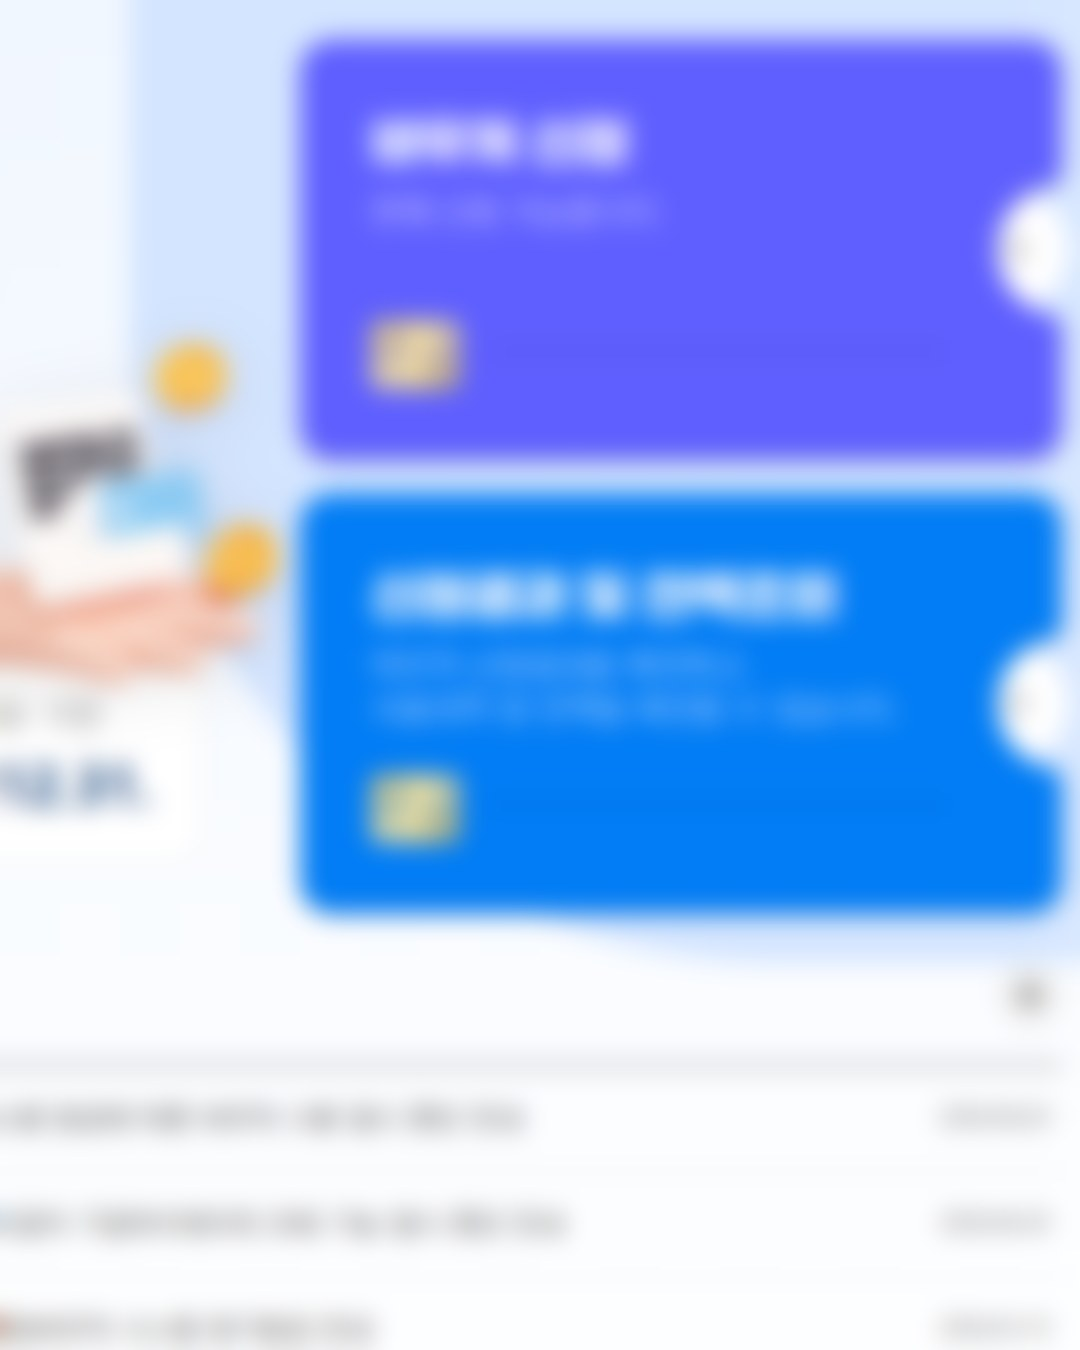
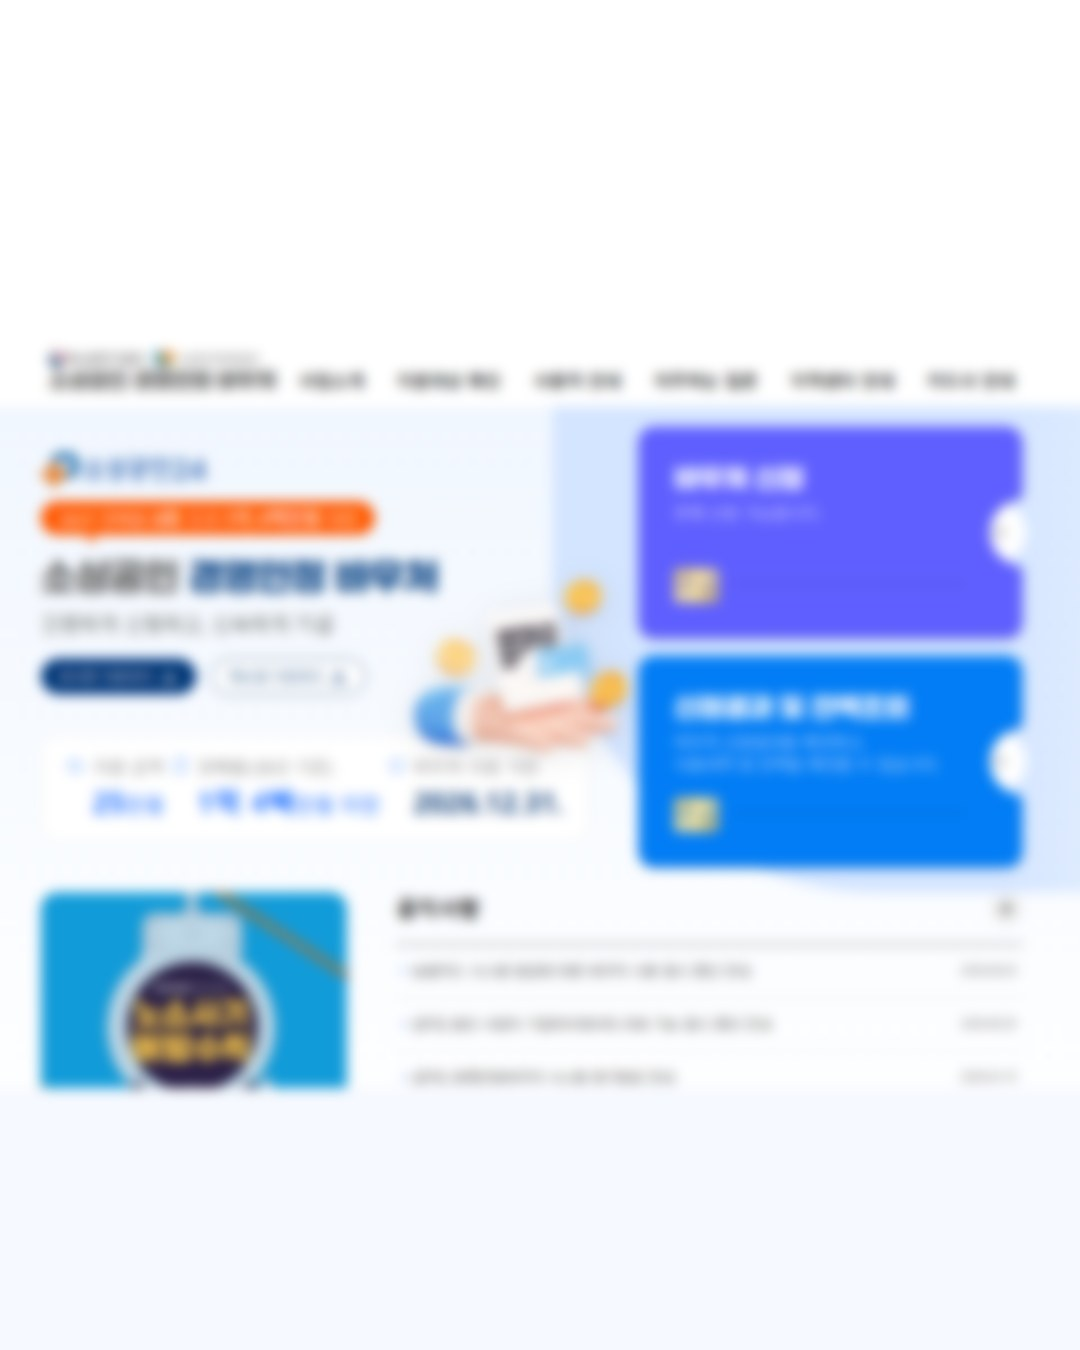
Zoom out and lighten the 알림판 자세히 01 cover background
Claude-Session: https://claude.ai/code/session_01KoBnt2iz7SC3gdCuJPqB9A

diff --git a/instagram/2026-10_알림판자세히01_경영안정바우처/slides.html b/instagram/2026-10_알림판자세히01_경영안정바우처/slides.html
@@ -97,7 +97,8 @@ body{background:#888;font-family:var(--sans)}
 .shot{position:absolute;left:96px;right:76px;border:3px dashed var(--g1);display:flex;align-items:center;justify-content:center;font-size:25px;font-weight:700;color:var(--g2);text-align:center;line-height:1.5}
 
 /* 표지 배경: 바우처 누리집 첫 화면(사용자 캡처)을 흐리게 깔고 어둡게 덮는다 */
-.photo{background:linear-gradient(rgba(10,10,11,.78),rgba(10,10,11,.84)),url(bg-voucher-home.jpg) center/cover;color:var(--white)}
+.photo .foot{color:var(--g1)}
+.photo{background:linear-gradient(rgba(10,10,11,.62),rgba(10,10,11,.68)),url(bg-voucher-home.jpg) center/cover;color:var(--white)}
 .shotimg{position:absolute;left:96px;right:76px;border:2px solid var(--line);display:block;width:908px;height:auto}
 .shotcap{position:absolute;left:96px;font-size:24px;font-weight:500;color:var(--body)}
 </style>
